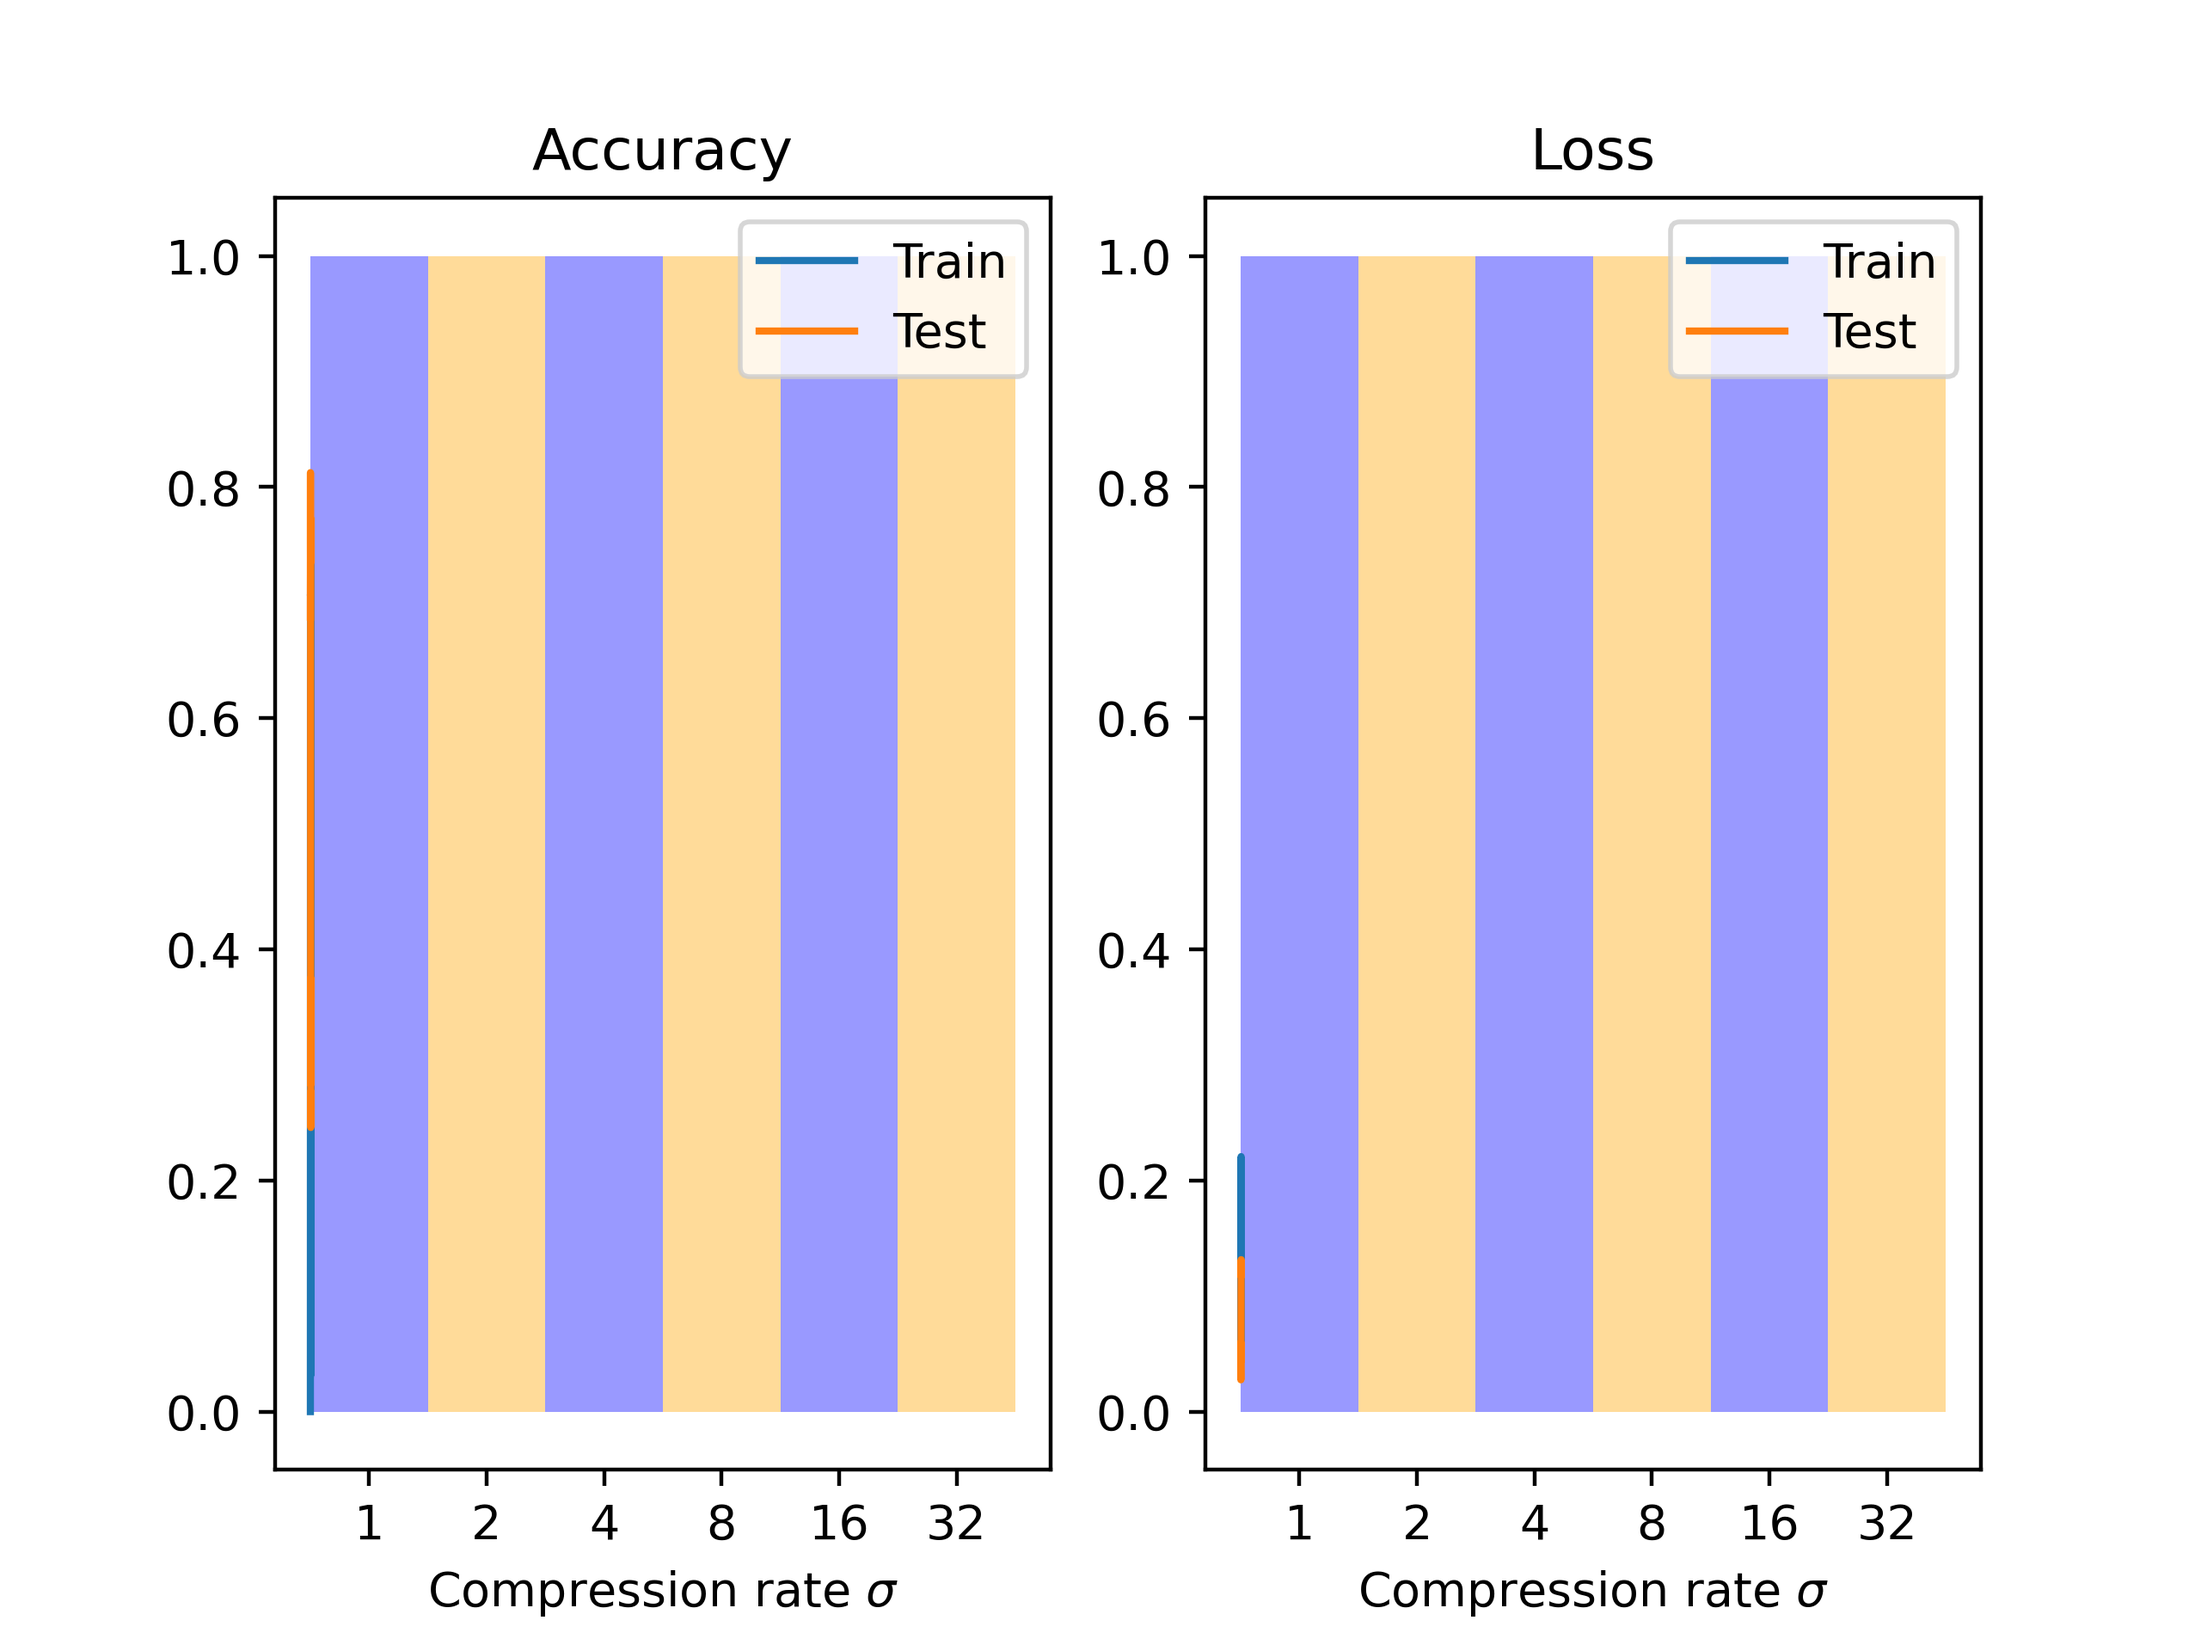
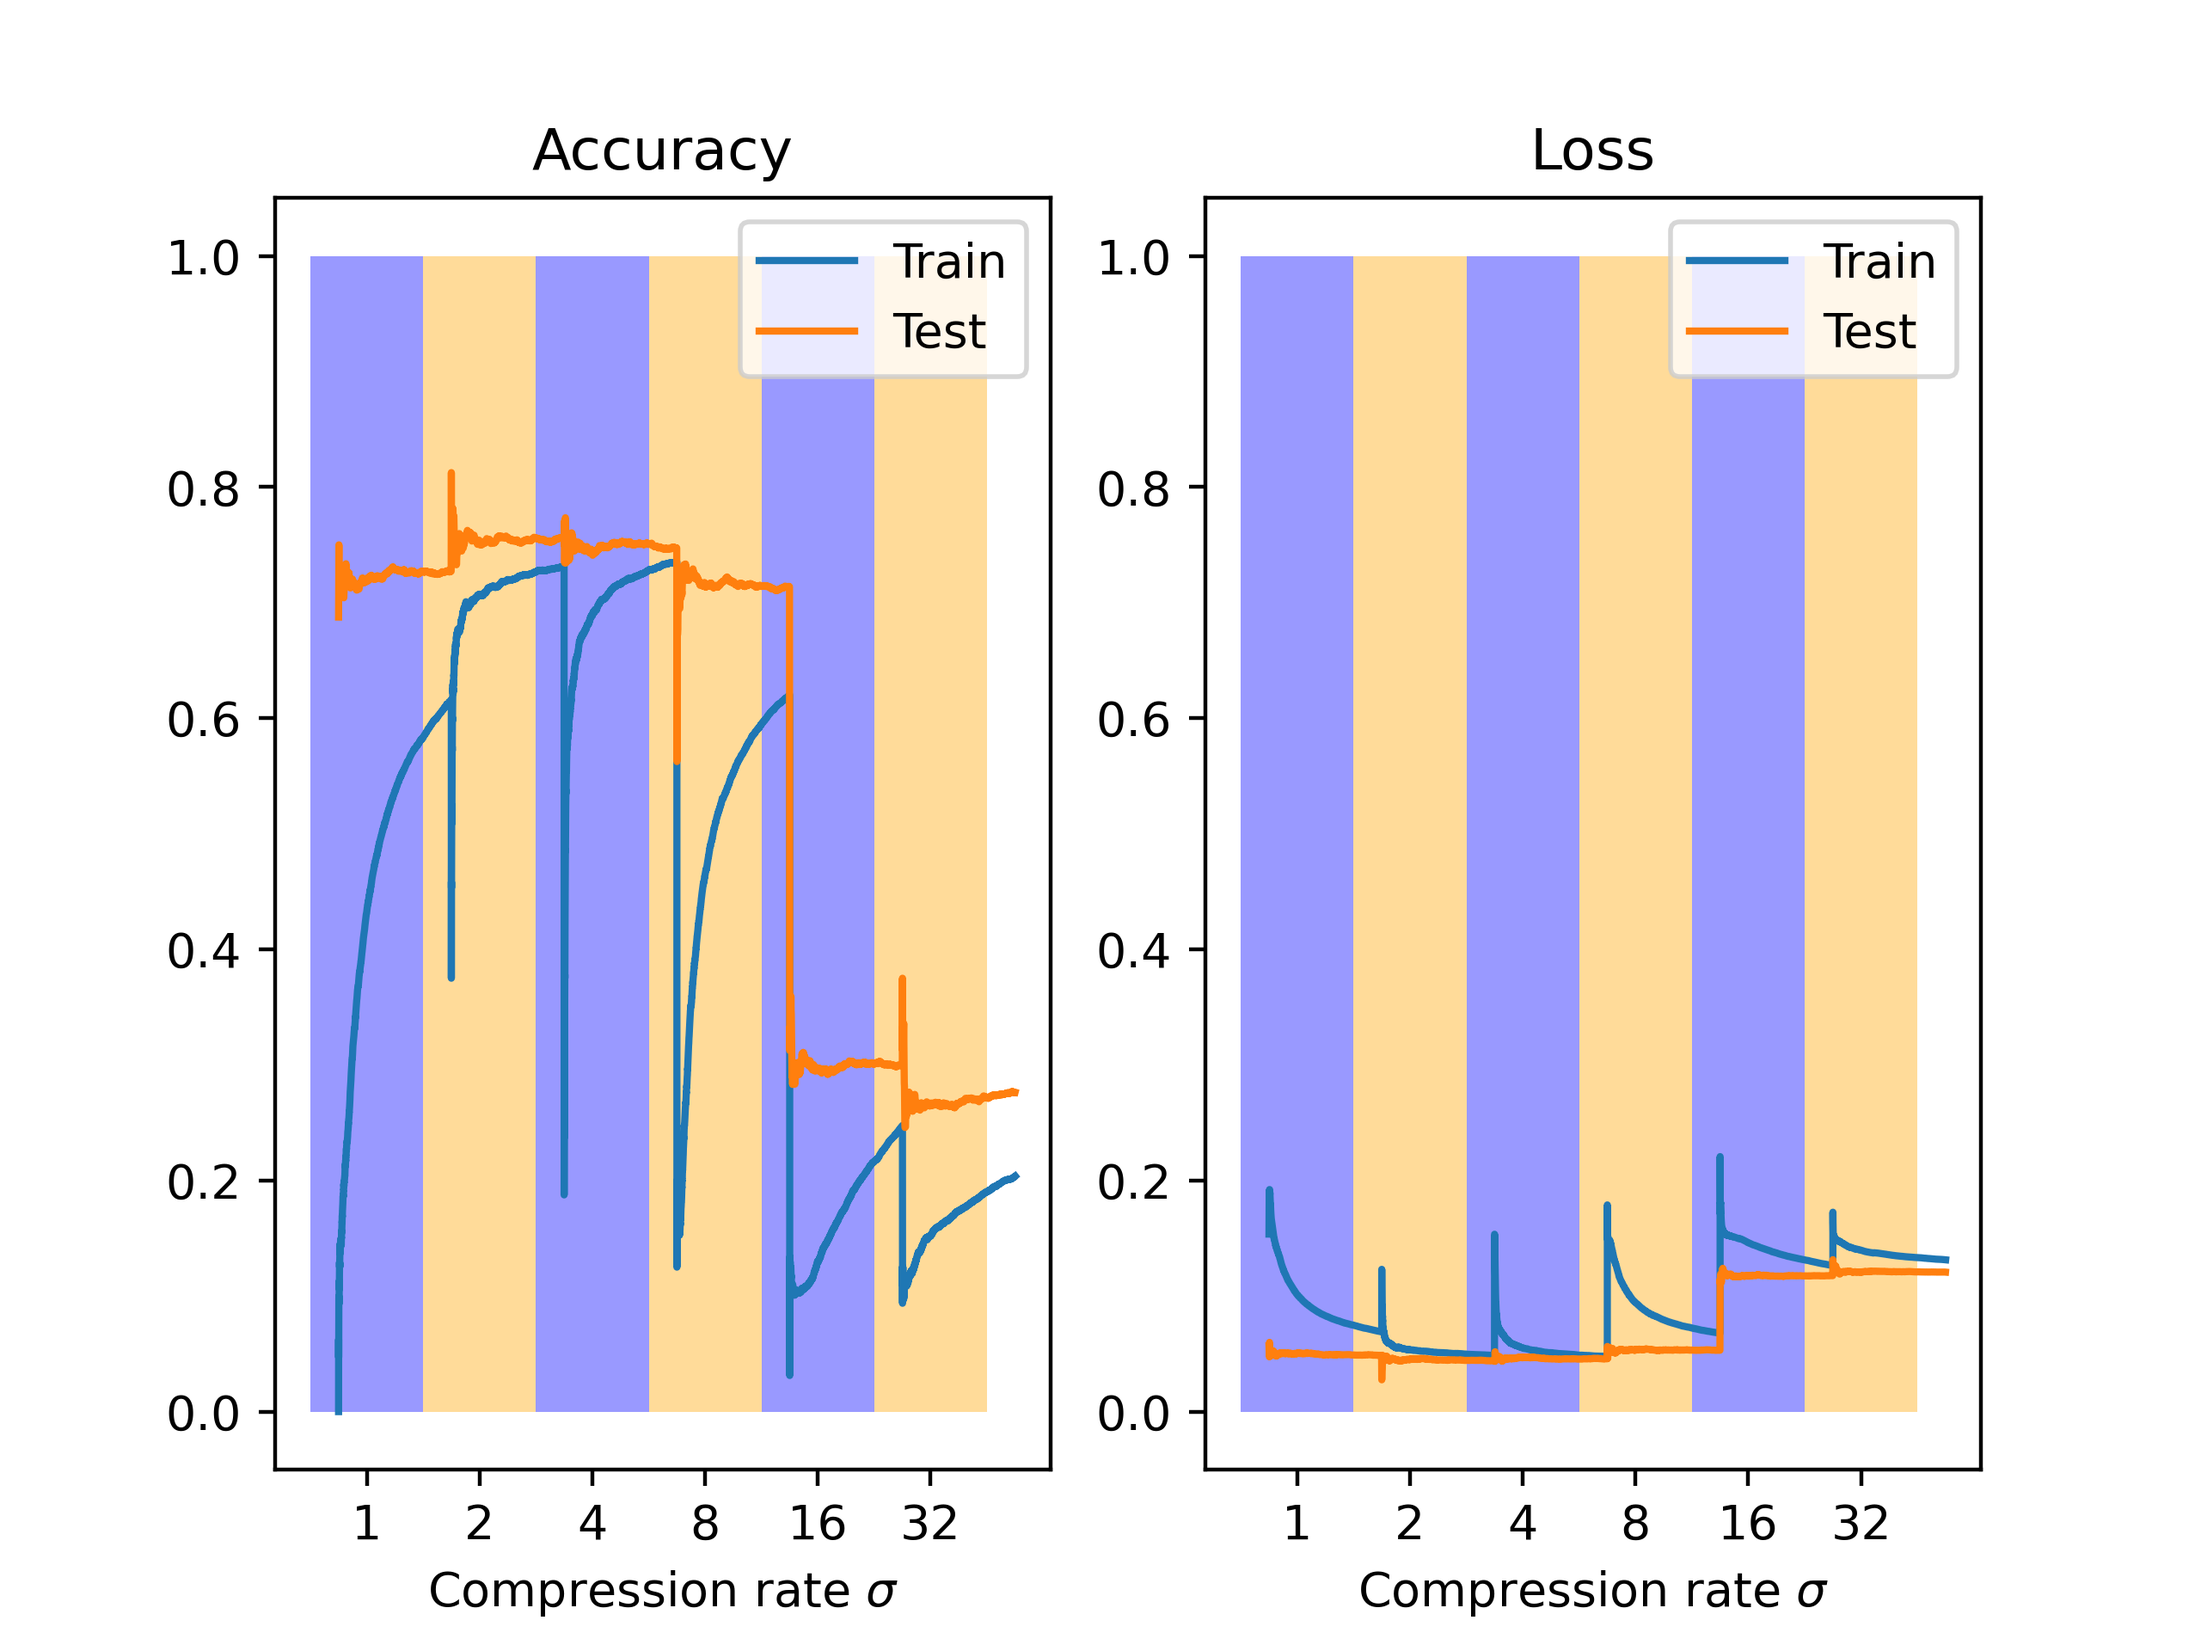
runtype

diff --git a/src/viz.py b/src/viz.py
@@ -28,7 +28,7 @@ def visualize_loss_acc(opt, allLosses, allAccs, compRates):
 		testAcc.extend(allAccs[compRateIndex]["test"])
 		testLoss.extend(allLosses[compRateIndex]["test"])
 
-	smidge = 0.5 / len(allAccs[0])
+	smidge = 0.5 / len(allAccs[0]["train"])
 
 	lossAx.plot(smidge + np.arange(len(trainLoss)) / len(allAccs[0]["train"]), trainLoss, label="Train")
 	lossAx.plot(smidge + np.arange(len(testLoss)) / len(allAccs[0]["test"]), testLoss, label="Test")
